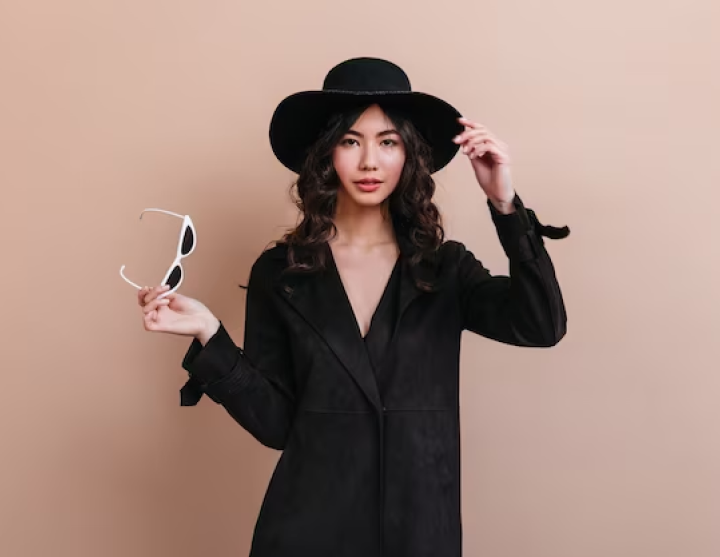
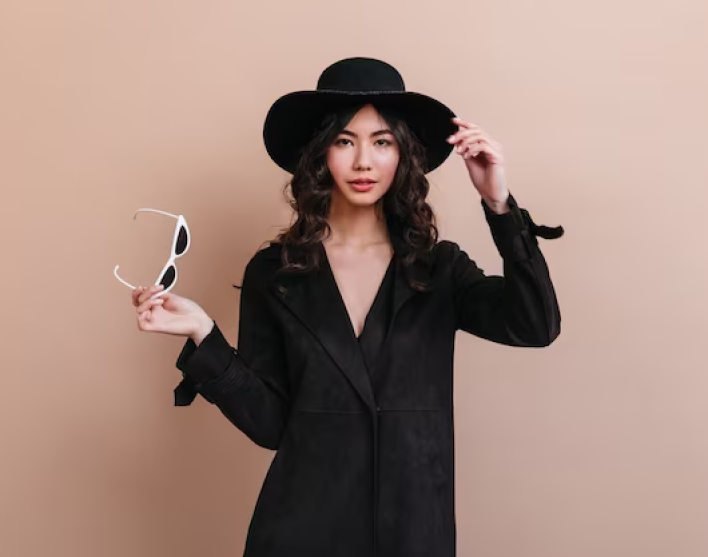
collection v2
v2

diff --git a/e-commerce/src/components/CollectionBox.vue b/e-commerce/src/components/CollectionBox.vue
@@ -1,7 +1,7 @@
 <template>
-    <div class="w-[1600px] h-[557px] bg-gray-200 flex justify-around ">
+    <div class="w-[1520px] h-[557px] flex justify-evenly ">
         <div v-for="c in Cbox" class="h-[557px] w-[708px] relative group"  >
-            <img :src="c.image" class="absolute bg-center ease-in-out transition-all transform duration-500" alt="">
+            <img :src="c.image" class="absolute object-scale-down" alt="">
             <div class="absolute w-[449px] h-[96px] bottom-7 flex left-32 bg-white group-hover:scale-105 transition duration-500">
                 <div class="flex flex-col h-full gap:1 w-[353px] pl-6 justify-center bg-white">
                     <p class="text-[12px] pl-3 font-normal">{{c.title}}</p>
@@ -19,13 +19,14 @@
     import {useEStore} from '../stores/eStore';
     import {mapState} from 'pinia';
 
-
+   
 
 
     export default{
         name: "CollectionBox",
         computed:{
             ...mapState(useEStore,['Cbox']),
-        }
+        },
+      
     }
 </script>

diff --git a/e-commerce/src/components/ShopBox.vue b/e-commerce/src/components/ShopBox.vue
@@ -1,10 +1,11 @@
 <template>
     
     <div class="h-fit w-full relative">
-        <img src="../assets/Shopfull.png" class="w-[1600px] h-[659px] object-cover" alt="">
+        <img src="../assets/Shopfull.png" class="w-[1520px] h-[659px] object-cover" alt="">
         <div class=" absolute top-44 left-16">
             <h1 class="w-[596px] text-[64px] font-semibold">luxary at the price you love</h1>
-            <input type="submit" class="w-[248px] h-[58px] bg-white font-medium text-[32px] mt-3 hover:bg-black hover:text-white" value="Shop now">
+            <input type="submit" class="w-[248px] h-[58px] bg-white font-mediumN text-[32px] mt-3 hover:bg-black hover:text-white" value="Shop now">
+            
         </div>    
     </div>
   

diff --git a/e-commerce/src/stores/eStore.js b/e-commerce/src/stores/eStore.js
@@ -17,7 +17,8 @@ export const useEStore = defineStore('todoList', {
         {
           image: collection1,
           title:'Old Season Collection: 2021',
-          dis:'A Perfect Combo in Fashion'
+          dis:'A Perfect Combo in Fashion',
+          icon: 'chevron-right'
         },
         {
           image: collection2,

diff --git a/e-commerce/src/App.vue b/e-commerce/src/App.vue
@@ -5,7 +5,6 @@
   <div class="h-fit w-full flex flex-col gap-[19px]">
     <ShopBox></ShopBox>
     <CollectionBox></CollectionBox>
-   
   </div>
   
   
